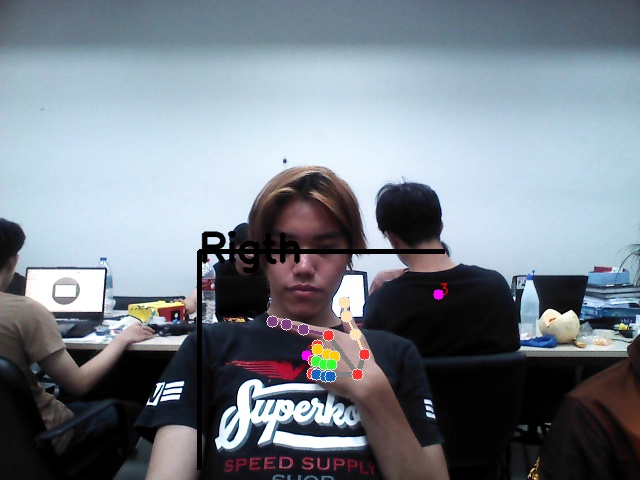
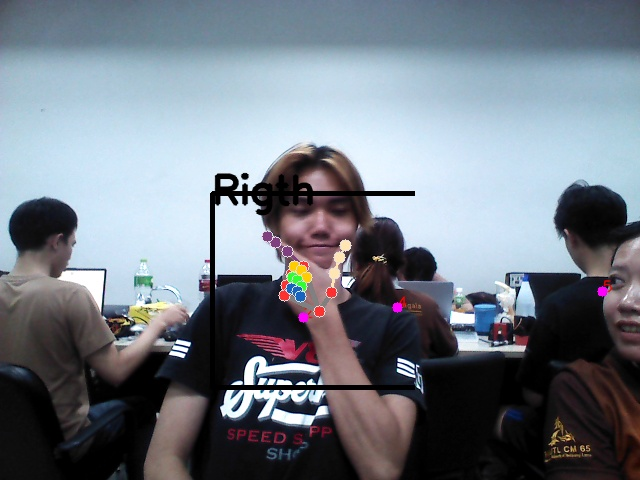
update ver 3 x y z

diff --git a/src/hand_listener_ver2.py b/src/hand_listener_ver2.py
@@ -104,7 +104,19 @@ class hand_pose:
                 try:
                
                     results = self.model.track(self.frame_rgb , persist=False, verbose=False)#จำกัดจำนวน [0]
+                    # size cam
                     h, w, _ = self.frame_rgb.shape
+                    # # Horizontal field of view in degrees
+                    horizontal_fov = 58          
+                    vertical_fov = 45  
+
+                    fx = h / (2 * np.tan(np.radians(horizontal_fov / 2)))
+                    fy = w / (2 * np.tan(np.radians(vertical_fov / 2)))
+
+                    # Calculate principal point (in pixels)
+                    cx = h / 2
+                    cy = w / 2
+
                     frame_copy = self.frame_rgb.copy()
 
                     
@@ -146,6 +158,10 @@ class hand_pose:
                                     if (int(ctx_p) >= 0 and int(ctx_p) <= (w-1)) or int(cty_p) >= 0 and int(cty_p) <= (h-1):
 
                                         dist =  self.frame_depth[int(cty_p-1) , int(ctx_p)] #mm
+                                        # Calculate x, y, z coordinates
+                                        coordinates_z = dist   # Depth value in millimeters
+                                        coordinates_x = ( int(ctx_p) - cx) * coordinates_z / fx
+                                        coordinates_y = (int(cty_p-1) - cy) * coordinates_z / fy
 
 
                                         #print(dist)
@@ -261,6 +277,7 @@ class hand_pose:
                         print('Sucess    : ',self.sucess)
                         #ไม่ส่งค่า Distance
                         print('Distance  : ',self.min_value ," mm")
+                        print('x : ',coordinates_x ," y :" , coordinates_y)
 
                         cv2.imwrite(os.path.join(self.current_dir,'human_pose.jpg'),frame_)
                         cv2.imwrite(os.path.join(self.current_dir,'hand.jpg'),frame_copy)
